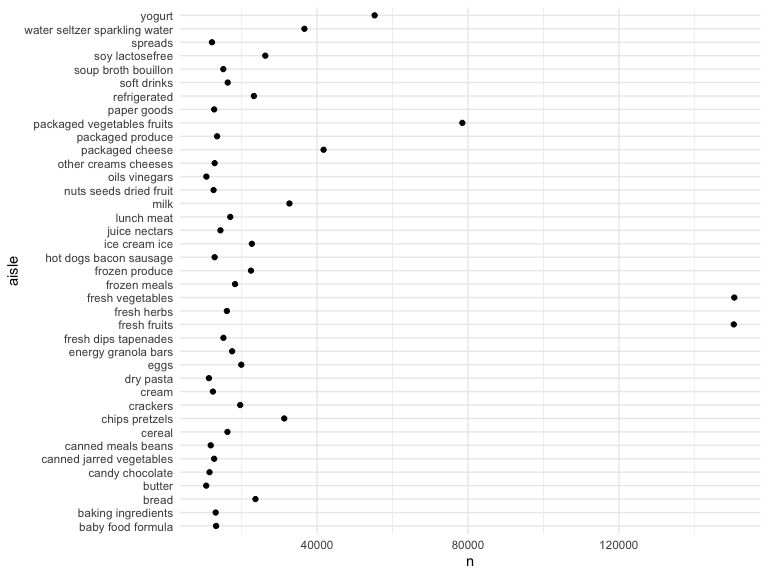
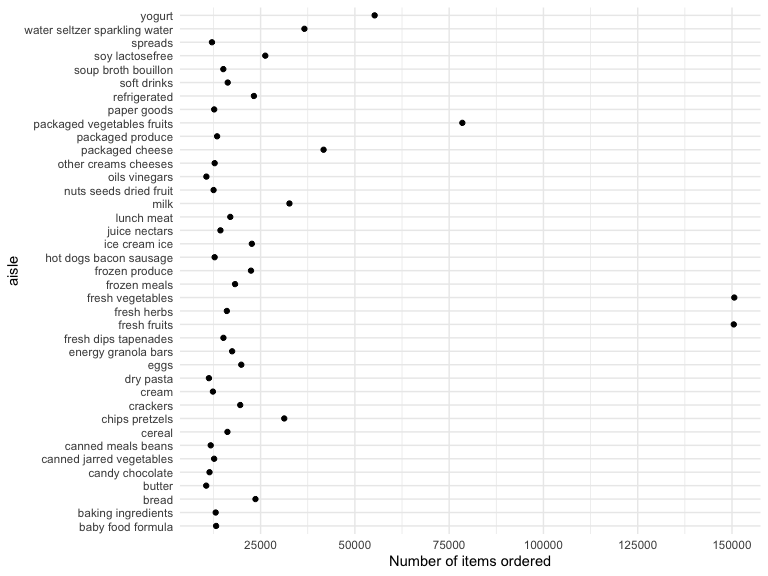
attemps to all four parts of Q1 but definitely have to be revisited.

diff --git a/p8105_hw3_cm3928.md b/p8105_hw3_cm3928.md
@@ -6,22 +6,26 @@ Clement Mugenzi
 ``` r
 library(p8105.datasets)
 data(instacart)
-head(instacart)
+janitor::clean_names(instacart)
 ```
 
-    ## # A tibble: 6 x 15
-    ##   order_id product_id add_to_cart_ord… reordered user_id eval_set
-    ##      <int>      <int>            <int>     <int>   <int> <chr>   
-    ## 1        1      49302                1         1  112108 train   
-    ## 2        1      11109                2         1  112108 train   
-    ## 3        1      10246                3         0  112108 train   
-    ## 4        1      49683                4         0  112108 train   
-    ## 5        1      43633                5         1  112108 train   
-    ## 6        1      13176                6         0  112108 train   
-    ## # … with 9 more variables: order_number <int>, order_dow <int>,
-    ## #   order_hour_of_day <int>, days_since_prior_order <int>,
-    ## #   product_name <chr>, aisle_id <int>, department_id <int>, aisle <chr>,
-    ## #   department <chr>
+    ## # A tibble: 1,384,617 x 15
+    ##    order_id product_id add_to_cart_ord… reordered user_id eval_set
+    ##       <int>      <int>            <int>     <int>   <int> <chr>   
+    ##  1        1      49302                1         1  112108 train   
+    ##  2        1      11109                2         1  112108 train   
+    ##  3        1      10246                3         0  112108 train   
+    ##  4        1      49683                4         0  112108 train   
+    ##  5        1      43633                5         1  112108 train   
+    ##  6        1      13176                6         0  112108 train   
+    ##  7        1      47209                7         0  112108 train   
+    ##  8        1      22035                8         1  112108 train   
+    ##  9       36      39612                1         0   79431 train   
+    ## 10       36      19660                2         1   79431 train   
+    ## # … with 1,384,607 more rows, and 9 more variables: order_number <int>,
+    ## #   order_dow <int>, order_hour_of_day <int>,
+    ## #   days_since_prior_order <int>, product_name <chr>, aisle_id <int>,
+    ## #   department_id <int>, aisle <chr>, department <chr>
 
 ## A brief description of the dataset
 
@@ -58,150 +62,151 @@ num_aisle
 items_ord = 
   instacart %>% 
   group_by(aisle) %>% 
-  summarize(n = n()) %>% 
-  arrange(-n)
+  summarize(items_ordered = n()) %>% 
+  arrange(-items_ordered)
+view(items_ord)
 ```
 
 ``` r
 kable(items_ord, markdown)
 ```
 
-|             aisle             |   n    |
-| :---------------------------: | :----: |
-|       fresh vegetables        | 150609 |
-|         fresh fruits          | 150473 |
-|  packaged vegetables fruits   | 78493  |
-|            yogurt             | 55240  |
-|        packaged cheese        | 41699  |
-| water seltzer sparkling water | 36617  |
-|             milk              | 32644  |
-|        chips pretzels         | 31269  |
-|        soy lactosefree        | 26240  |
-|             bread             | 23635  |
-|         refrigerated          | 23228  |
-|         ice cream ice         | 22676  |
-|        frozen produce         | 22453  |
-|             eggs              | 19875  |
-|           crackers            | 19592  |
-|         frozen meals          | 18221  |
-|      energy granola bars      | 17449  |
-|          lunch meat           | 16957  |
-|          soft drinks          | 16279  |
-|            cereal             | 16201  |
-|          fresh herbs          | 16052  |
-|     fresh dips tapenades      | 15142  |
-|      soup broth bouillon      | 15109  |
-|         juice nectars         | 14350  |
-|       packaged produce        | 13460  |
-|       baby food formula       | 13198  |
-|      baking ingredients       | 13088  |
-|     other creams cheeses      | 12820  |
-|    hot dogs bacon sausage     | 12813  |
-|          paper goods          | 12694  |
-|   canned jarred vegetables    | 12679  |
-|    nuts seeds dried fruit     | 12532  |
-|             cream             | 12356  |
-|            spreads            | 12102  |
-|      canned meals beans       | 11774  |
-|        candy chocolate        | 11453  |
-|           dry pasta           | 11298  |
-|         oils vinegars         | 10620  |
-|            butter             | 10575  |
-|         cookies cakes         |  9980  |
-|         instant foods         |  9917  |
-|       breakfast bakery        |  9851  |
-|          condiments           |  9743  |
-|          pasta sauce          |  9736  |
-|       frozen breakfast        |  9729  |
-|              tea              |  9376  |
-|       spices seasonings       |  9279  |
-|    frozen appetizers sides    |  8870  |
-|            coffee             |  8392  |
-|     tortillas flat bread      |  8353  |
-|            missing            |  8251  |
-|         frozen pizza          |  7661  |
-|          asian foods          |  7007  |
-|         popcorn jerky         |  6917  |
-|    fruit vegetable snacks     |  6741  |
-|   hot cereal pancake mixes    |  6352  |
-|    grains rice dried goods    |  6134  |
-|       cleaning products       |  5894  |
-|       packaged poultry        |  5608  |
-|        poultry counter        |  5208  |
-|    preserved dips spreads     |  5188  |
-|    tofu meat alternatives     |  5123  |
-|          buns rolls           |  5054  |
-|     pickled goods olives      |  4882  |
-|  doughs gelatins bake mixes   |  4758  |
-|     energy sports drinks      |  4742  |
-|    frozen vegan vegetarian    |  4727  |
-|    salad dressing toppings    |  4719  |
-|            laundry            |  4636  |
-|        prepared meals         |  4133  |
-|    canned fruit applesauce    |  3996  |
-|       specialty cheeses       |  3873  |
-|        dish detergents        |  3870  |
-|            granola            |  3803  |
-|         latino foods          |  3548  |
-|      frozen meat seafood      |  3341  |
-|      canned meat seafood      |  3241  |
-|         meat counter          |  3159  |
-|    breakfast bars pastries    |  3144  |
-|         oral hygiene          |  3070  |
-|     prepared soups salads     |  2936  |
-|         food storage          |  2906  |
-|  marinades meat preparation   |  2905  |
-|         cat food care         |  2885  |
-|     honeys syrups nectars     |  2864  |
-|             soap              |  2773  |
-|       body lotions soap       |  2137  |
-|     vitamins supplements      |  1969  |
-|  plates bowls cups flatware   |  1959  |
-|         beers coolers         |  1839  |
-|             other             |  1795  |
-| refrigerated pudding desserts |  1729  |
-|          fresh pasta          |  1628  |
-|       trash bags liners       |  1621  |
-|         dog food care         |  1612  |
-|   protein meal replacements   |  1612  |
-|     frozen breads doughs      |  1532  |
-|         packaged meat         |  1526  |
-|        bakery desserts        |  1501  |
-|           hair care           |  1469  |
-|      trail mix snack mix      |  1463  |
-|       cold flu allergy        |  1346  |
-|           red wines           |  1243  |
-|           digestion           |  1205  |
-|         diapers wipes         |  1109  |
-|     baking supplies decor     |  1094  |
-|          white wines          |  1088  |
-|        seafood counter        |  1084  |
-|    air fresheners candles     |  1067  |
-|       cocoa drink mixes       |  1062  |
-|         feminine care         |  1048  |
-|            spirits            |  967   |
-|           mint gum            |  962   |
-|        frozen dessert         |  922   |
-|       packaged seafood        |  909   |
-|  muscles joints pain relief   |  897   |
-|        more household         |  891   |
-|          deodorants           |  858   |
-|          facial care          |  746   |
-| bulk dried fruits vegetables  |  725   |
-|         indian foods          |  719   |
-| bulk grains rice dried goods  |  634   |
-|         kosher foods          |  628   |
-|         eye ear care          |  548   |
-|           first aid           |  539   |
-|           skin care           |  534   |
-|          shave needs          |  532   |
-|      ice cream toppings       |  504   |
-|  specialty wines champagnes   |  461   |
-|       kitchen supplies        |  448   |
-|      baby bath body care      |  328   |
-|       baby accessories        |  306   |
-|         frozen juice          |  294   |
-|            beauty             |  287   |
+|             aisle             | items\_ordered |
+| :---------------------------: | :------------: |
+|       fresh vegetables        |     150609     |
+|         fresh fruits          |     150473     |
+|  packaged vegetables fruits   |     78493      |
+|            yogurt             |     55240      |
+|        packaged cheese        |     41699      |
+| water seltzer sparkling water |     36617      |
+|             milk              |     32644      |
+|        chips pretzels         |     31269      |
+|        soy lactosefree        |     26240      |
+|             bread             |     23635      |
+|         refrigerated          |     23228      |
+|         ice cream ice         |     22676      |
+|        frozen produce         |     22453      |
+|             eggs              |     19875      |
+|           crackers            |     19592      |
+|         frozen meals          |     18221      |
+|      energy granola bars      |     17449      |
+|          lunch meat           |     16957      |
+|          soft drinks          |     16279      |
+|            cereal             |     16201      |
+|          fresh herbs          |     16052      |
+|     fresh dips tapenades      |     15142      |
+|      soup broth bouillon      |     15109      |
+|         juice nectars         |     14350      |
+|       packaged produce        |     13460      |
+|       baby food formula       |     13198      |
+|      baking ingredients       |     13088      |
+|     other creams cheeses      |     12820      |
+|    hot dogs bacon sausage     |     12813      |
+|          paper goods          |     12694      |
+|   canned jarred vegetables    |     12679      |
+|    nuts seeds dried fruit     |     12532      |
+|             cream             |     12356      |
+|            spreads            |     12102      |
+|      canned meals beans       |     11774      |
+|        candy chocolate        |     11453      |
+|           dry pasta           |     11298      |
+|         oils vinegars         |     10620      |
+|            butter             |     10575      |
+|         cookies cakes         |      9980      |
+|         instant foods         |      9917      |
+|       breakfast bakery        |      9851      |
+|          condiments           |      9743      |
+|          pasta sauce          |      9736      |
+|       frozen breakfast        |      9729      |
+|              tea              |      9376      |
+|       spices seasonings       |      9279      |
+|    frozen appetizers sides    |      8870      |
+|            coffee             |      8392      |
+|     tortillas flat bread      |      8353      |
+|            missing            |      8251      |
+|         frozen pizza          |      7661      |
+|          asian foods          |      7007      |
+|         popcorn jerky         |      6917      |
+|    fruit vegetable snacks     |      6741      |
+|   hot cereal pancake mixes    |      6352      |
+|    grains rice dried goods    |      6134      |
+|       cleaning products       |      5894      |
+|       packaged poultry        |      5608      |
+|        poultry counter        |      5208      |
+|    preserved dips spreads     |      5188      |
+|    tofu meat alternatives     |      5123      |
+|          buns rolls           |      5054      |
+|     pickled goods olives      |      4882      |
+|  doughs gelatins bake mixes   |      4758      |
+|     energy sports drinks      |      4742      |
+|    frozen vegan vegetarian    |      4727      |
+|    salad dressing toppings    |      4719      |
+|            laundry            |      4636      |
+|        prepared meals         |      4133      |
+|    canned fruit applesauce    |      3996      |
+|       specialty cheeses       |      3873      |
+|        dish detergents        |      3870      |
+|            granola            |      3803      |
+|         latino foods          |      3548      |
+|      frozen meat seafood      |      3341      |
+|      canned meat seafood      |      3241      |
+|         meat counter          |      3159      |
+|    breakfast bars pastries    |      3144      |
+|         oral hygiene          |      3070      |
+|     prepared soups salads     |      2936      |
+|         food storage          |      2906      |
+|  marinades meat preparation   |      2905      |
+|         cat food care         |      2885      |
+|     honeys syrups nectars     |      2864      |
+|             soap              |      2773      |
+|       body lotions soap       |      2137      |
+|     vitamins supplements      |      1969      |
+|  plates bowls cups flatware   |      1959      |
+|         beers coolers         |      1839      |
+|             other             |      1795      |
+| refrigerated pudding desserts |      1729      |
+|          fresh pasta          |      1628      |
+|       trash bags liners       |      1621      |
+|         dog food care         |      1612      |
+|   protein meal replacements   |      1612      |
+|     frozen breads doughs      |      1532      |
+|         packaged meat         |      1526      |
+|        bakery desserts        |      1501      |
+|           hair care           |      1469      |
+|      trail mix snack mix      |      1463      |
+|       cold flu allergy        |      1346      |
+|           red wines           |      1243      |
+|           digestion           |      1205      |
+|         diapers wipes         |      1109      |
+|     baking supplies decor     |      1094      |
+|          white wines          |      1088      |
+|        seafood counter        |      1084      |
+|    air fresheners candles     |      1067      |
+|       cocoa drink mixes       |      1062      |
+|         feminine care         |      1048      |
+|            spirits            |      967       |
+|           mint gum            |      962       |
+|        frozen dessert         |      922       |
+|       packaged seafood        |      909       |
+|  muscles joints pain relief   |      897       |
+|        more household         |      891       |
+|          deodorants           |      858       |
+|          facial care          |      746       |
+| bulk dried fruits vegetables  |      725       |
+|         indian foods          |      719       |
+| bulk grains rice dried goods  |      634       |
+|         kosher foods          |      628       |
+|         eye ear care          |      548       |
+|           first aid           |      539       |
+|           skin care           |      534       |
+|          shave needs          |      532       |
+|      ice cream toppings       |      504       |
+|  specialty wines champagnes   |      461       |
+|       kitchen supplies        |      448       |
+|      baby bath body care      |      328       |
+|       baby accessories        |      306       |
+|         frozen juice          |      294       |
+|            beauty             |      287       |
 
 There are 134 aisles and fresh vegetables is the most popular aisle with
 150609 items ordered from it.
@@ -213,9 +218,51 @@ aisles sensibly, and organize your plot so others can read it.**
 ``` r
 plot = 
   items_ord %>%
-  filter(n > 10000) %>% 
-  ggplot(aes(x = n, y = aisle)) + geom_point()
+  filter(items_ordered > 10000) %>% 
+  ggplot(aes(x = items_ordered, y = aisle)) + 
+  geom_point() +
+  labs(
+     x = "Number of items ordered") +
+  scale_x_continuous(
+    breaks = c(25000, 50000, 75000, 100000, 125000, 150000)
+  )
 plot
 ```
 
 <img src="p8105_hw3_cm3928_files/figure-gfm/unnamed-chunk-6-1.png" width="90%" />
+
+**Make a table showing the three most popular items in each of the
+aisles “baking ingredients”, “dog food care”, and “packaged vegetables
+fruits”. Include the number of times each item is ordered in your
+table.**
+
+``` r
+tab = 
+  instacart %>% 
+  group_by(aisle, product_name) %>% 
+  filter(min_rank(desc(order_id)) < 4) %>% 
+  select(-c(product_id:days_since_prior_order), 
+         -department_id, -aisle_id) %>% 
+  summarise(order_id = n()) %>%
+  filter(aisle == "dog food care")
+view(tab)
+```
+
+**Make a table showing the mean hour of the day at which Pink Lady
+Apples and Coffee Ice Cream are ordered on each day of the week; format
+this table for human readers (i.e. produce a 2 x 7 table).**
+
+``` r
+pat3 = 
+  instacart %>% 
+  group_by(product_name, order_hour_of_day) %>% 
+  filter(product_name == "Pink Lady Apples") %>% 
+  select(-c(product_id:days_since_prior_order), 
+         -department_id, -aisle_id) 
+```
+
+    ## Adding missing grouping variables: `order_hour_of_day`
+
+``` r
+view(pat3)
+```
